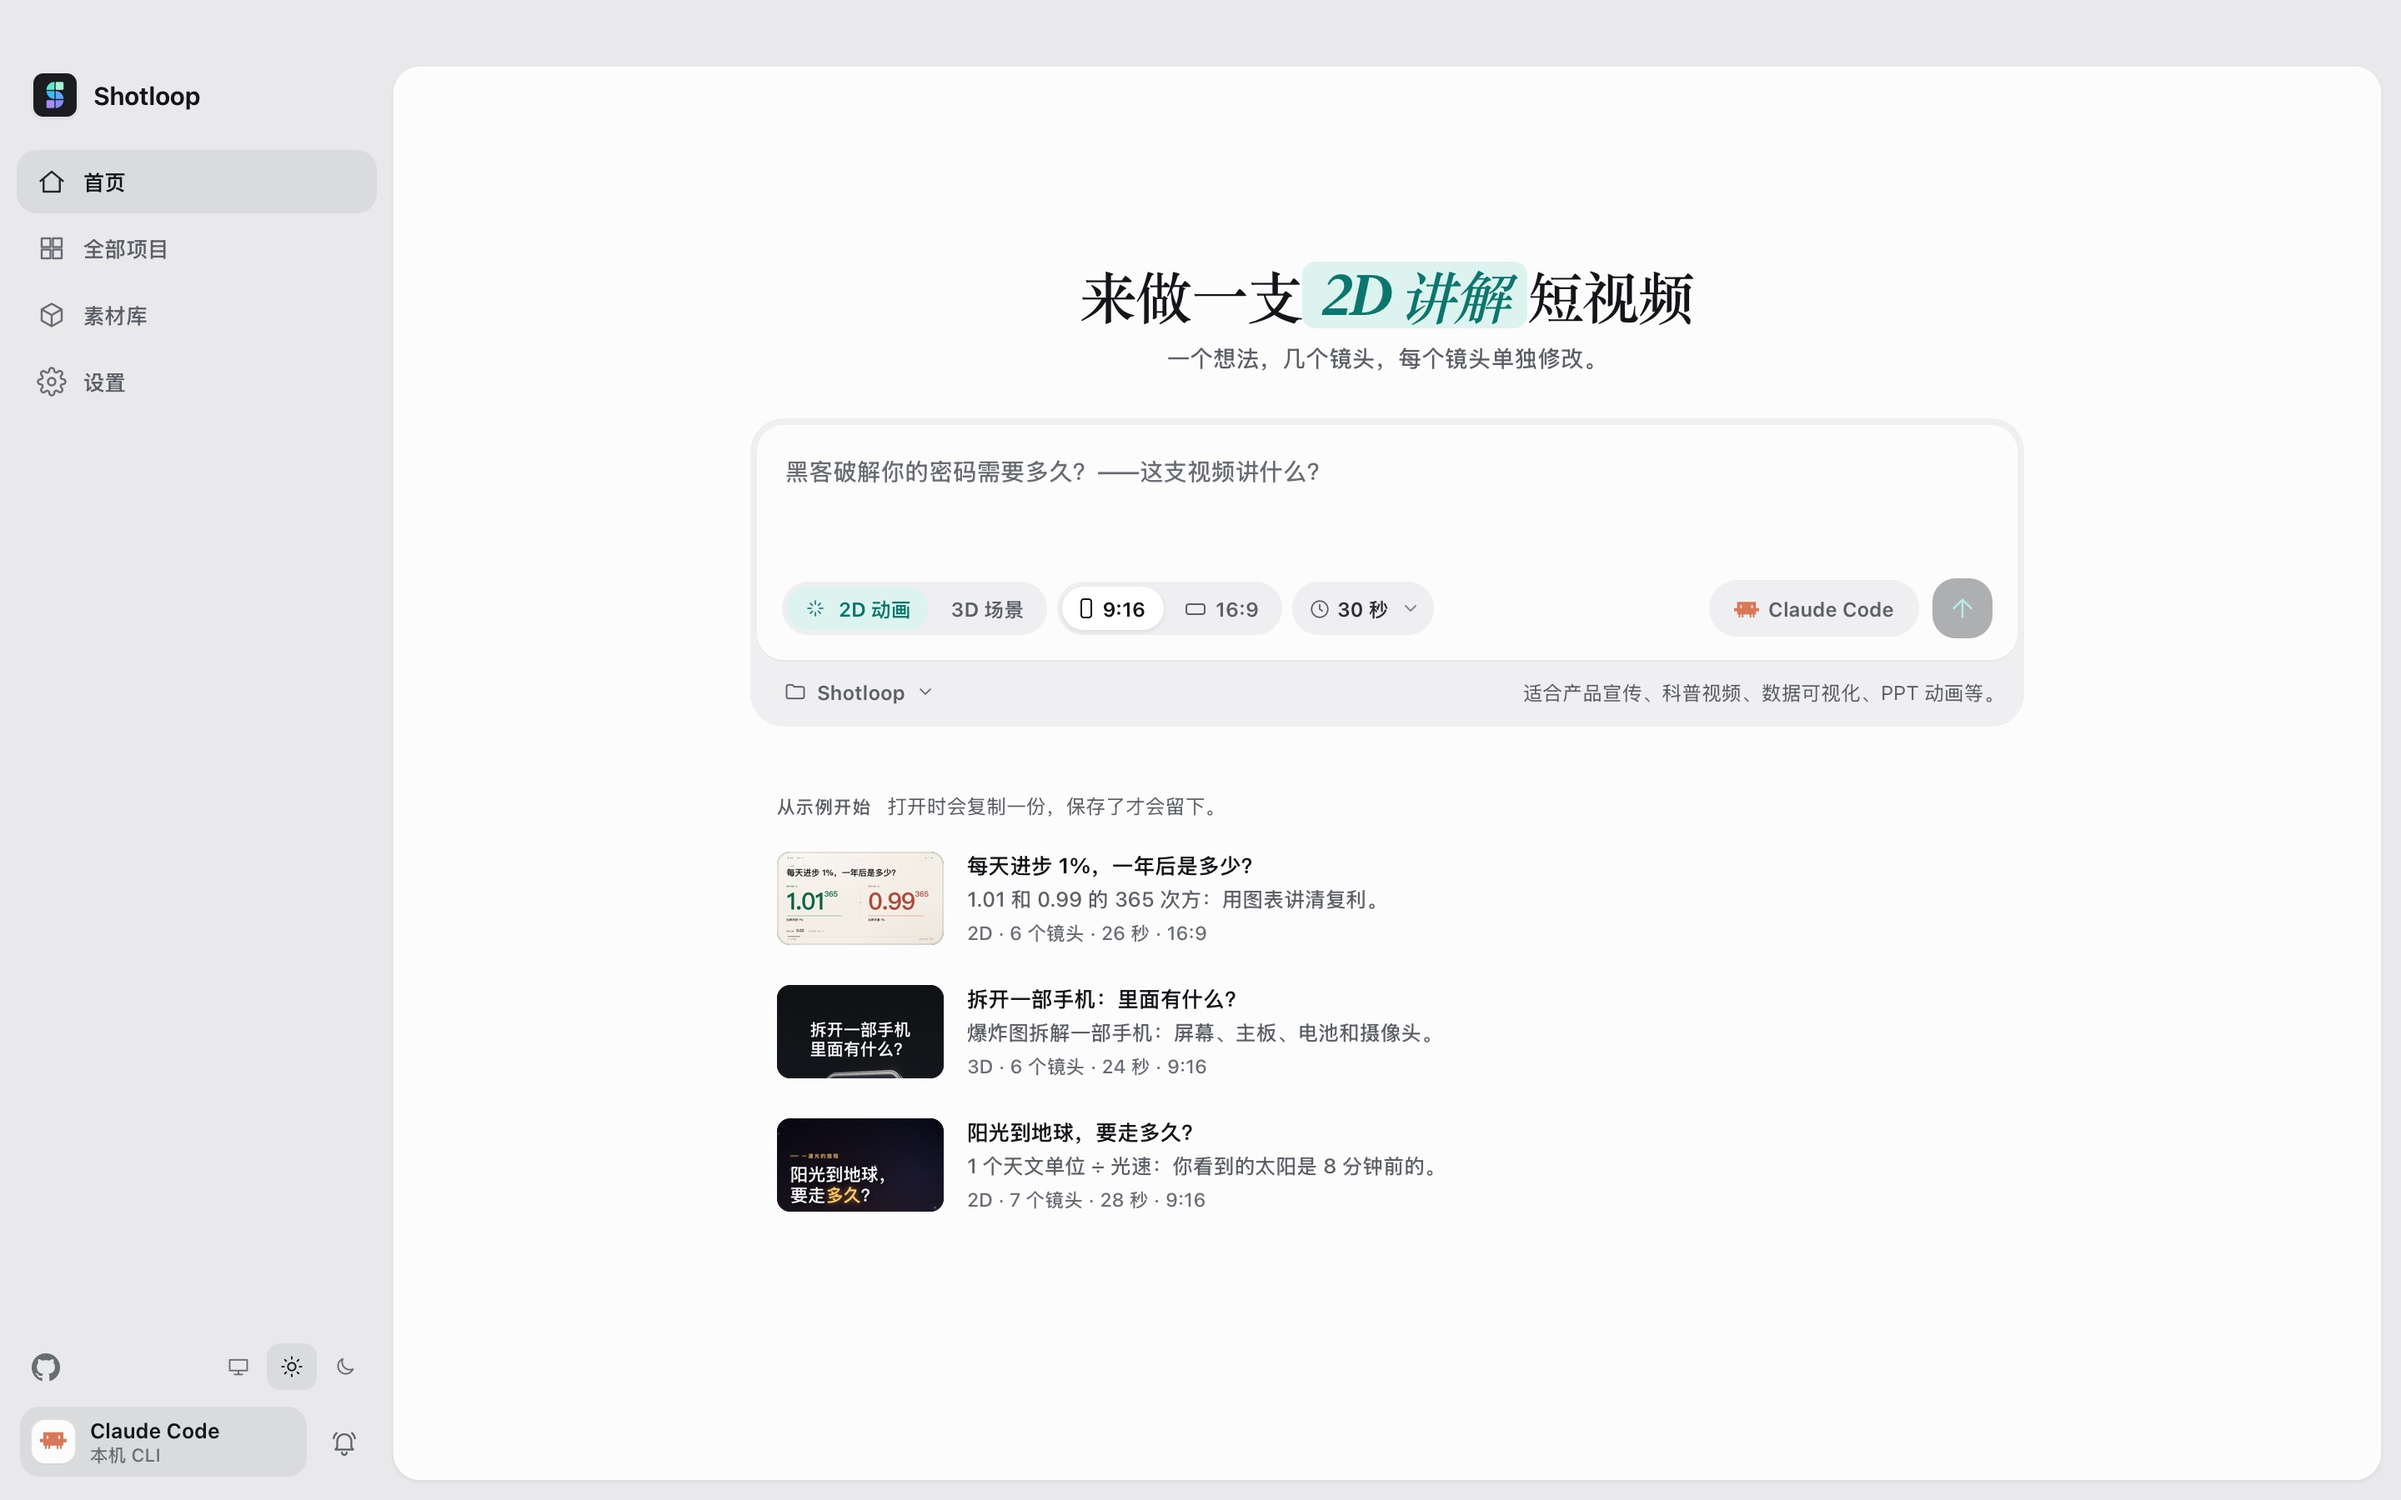
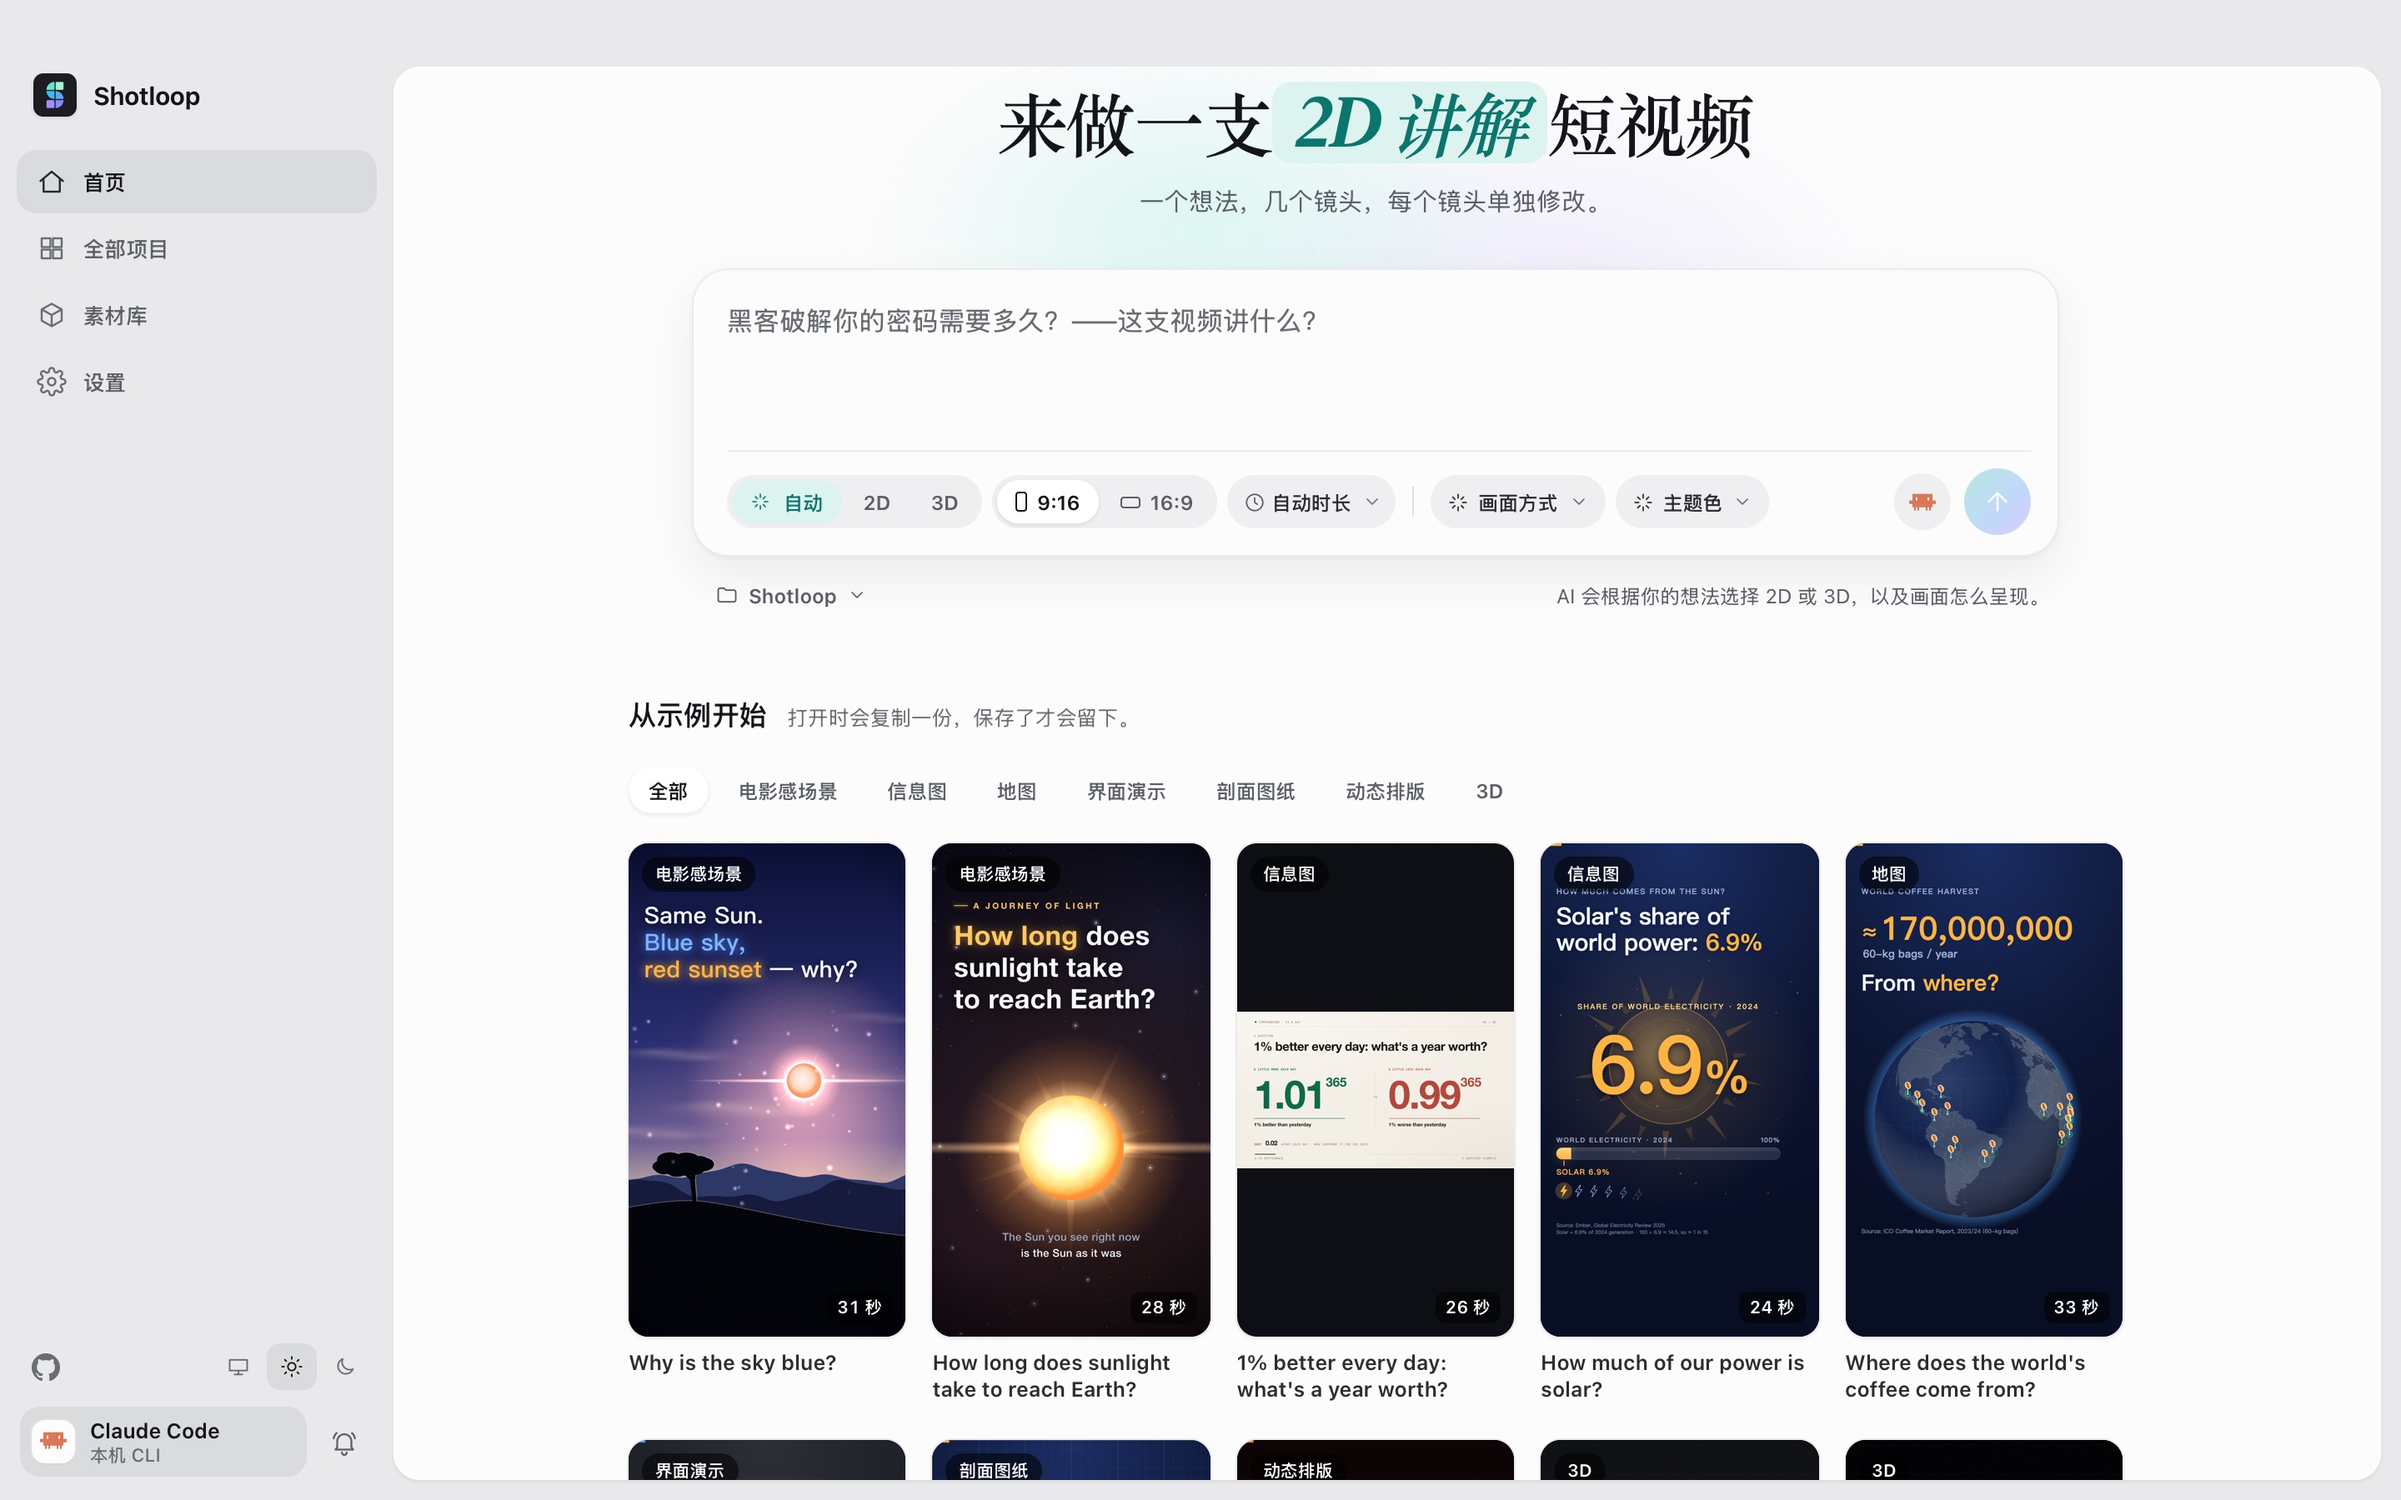
README: new Home and Export screenshots in the tour
Home shows the new composer (Auto, style and theme) and the example
gallery; Export shows the export dialog with an AI cover. Both READMEs'
alt text says what the images now show.

diff --git a/README.md b/README.md
@@ -72,7 +72,7 @@ The AI picks the style that fits the subject and tells you why; you can switch o
 <table>
 <tr>
 <td width="50%" valign="top">
-<a href="docs/screenshots/home.jpg"><img src="docs/screenshots/home.jpg" alt="Home: an idea composer with 2D/3D, aspect and length, and the examples" /></a><br/>
+<a href="docs/screenshots/home.jpg"><img src="docs/screenshots/home.jpg" alt="Home: an idea composer with 2D/3D, aspect, length, style and theme, and the example gallery filtered by style" /></a><br/>
 <sub><b>Home</b>: one sentence. 2D or 3D, the length, the style and the theme can stay on Auto. Or start from an example in the gallery.</sub>
 </td>
 <td width="50%" valign="top">
@@ -92,7 +92,7 @@ The AI picks the style that fits the subject and tells you why; you can switch o
 </tr>
 <tr>
 <td width="50%" valign="top">
-<a href="docs/screenshots/export.jpg"><img src="docs/screenshots/export.jpg" alt="Export drawer: aspects, music with a listen button, and publish copy" /></a><br/>
+<a href="docs/screenshots/export.jpg"><img src="docs/screenshots/export.jpg" alt="Export dialog: the cover, the name and folder, the video with aspects and music, and the publish copy" /></a><br/>
 <sub><b>Export</b>: tick the video (vertical, horizontal), the cover and the publish copy; edit the cover and the copy first. Every export goes into its own folder.</sub>
 </td>
 <td width="50%" valign="top">
